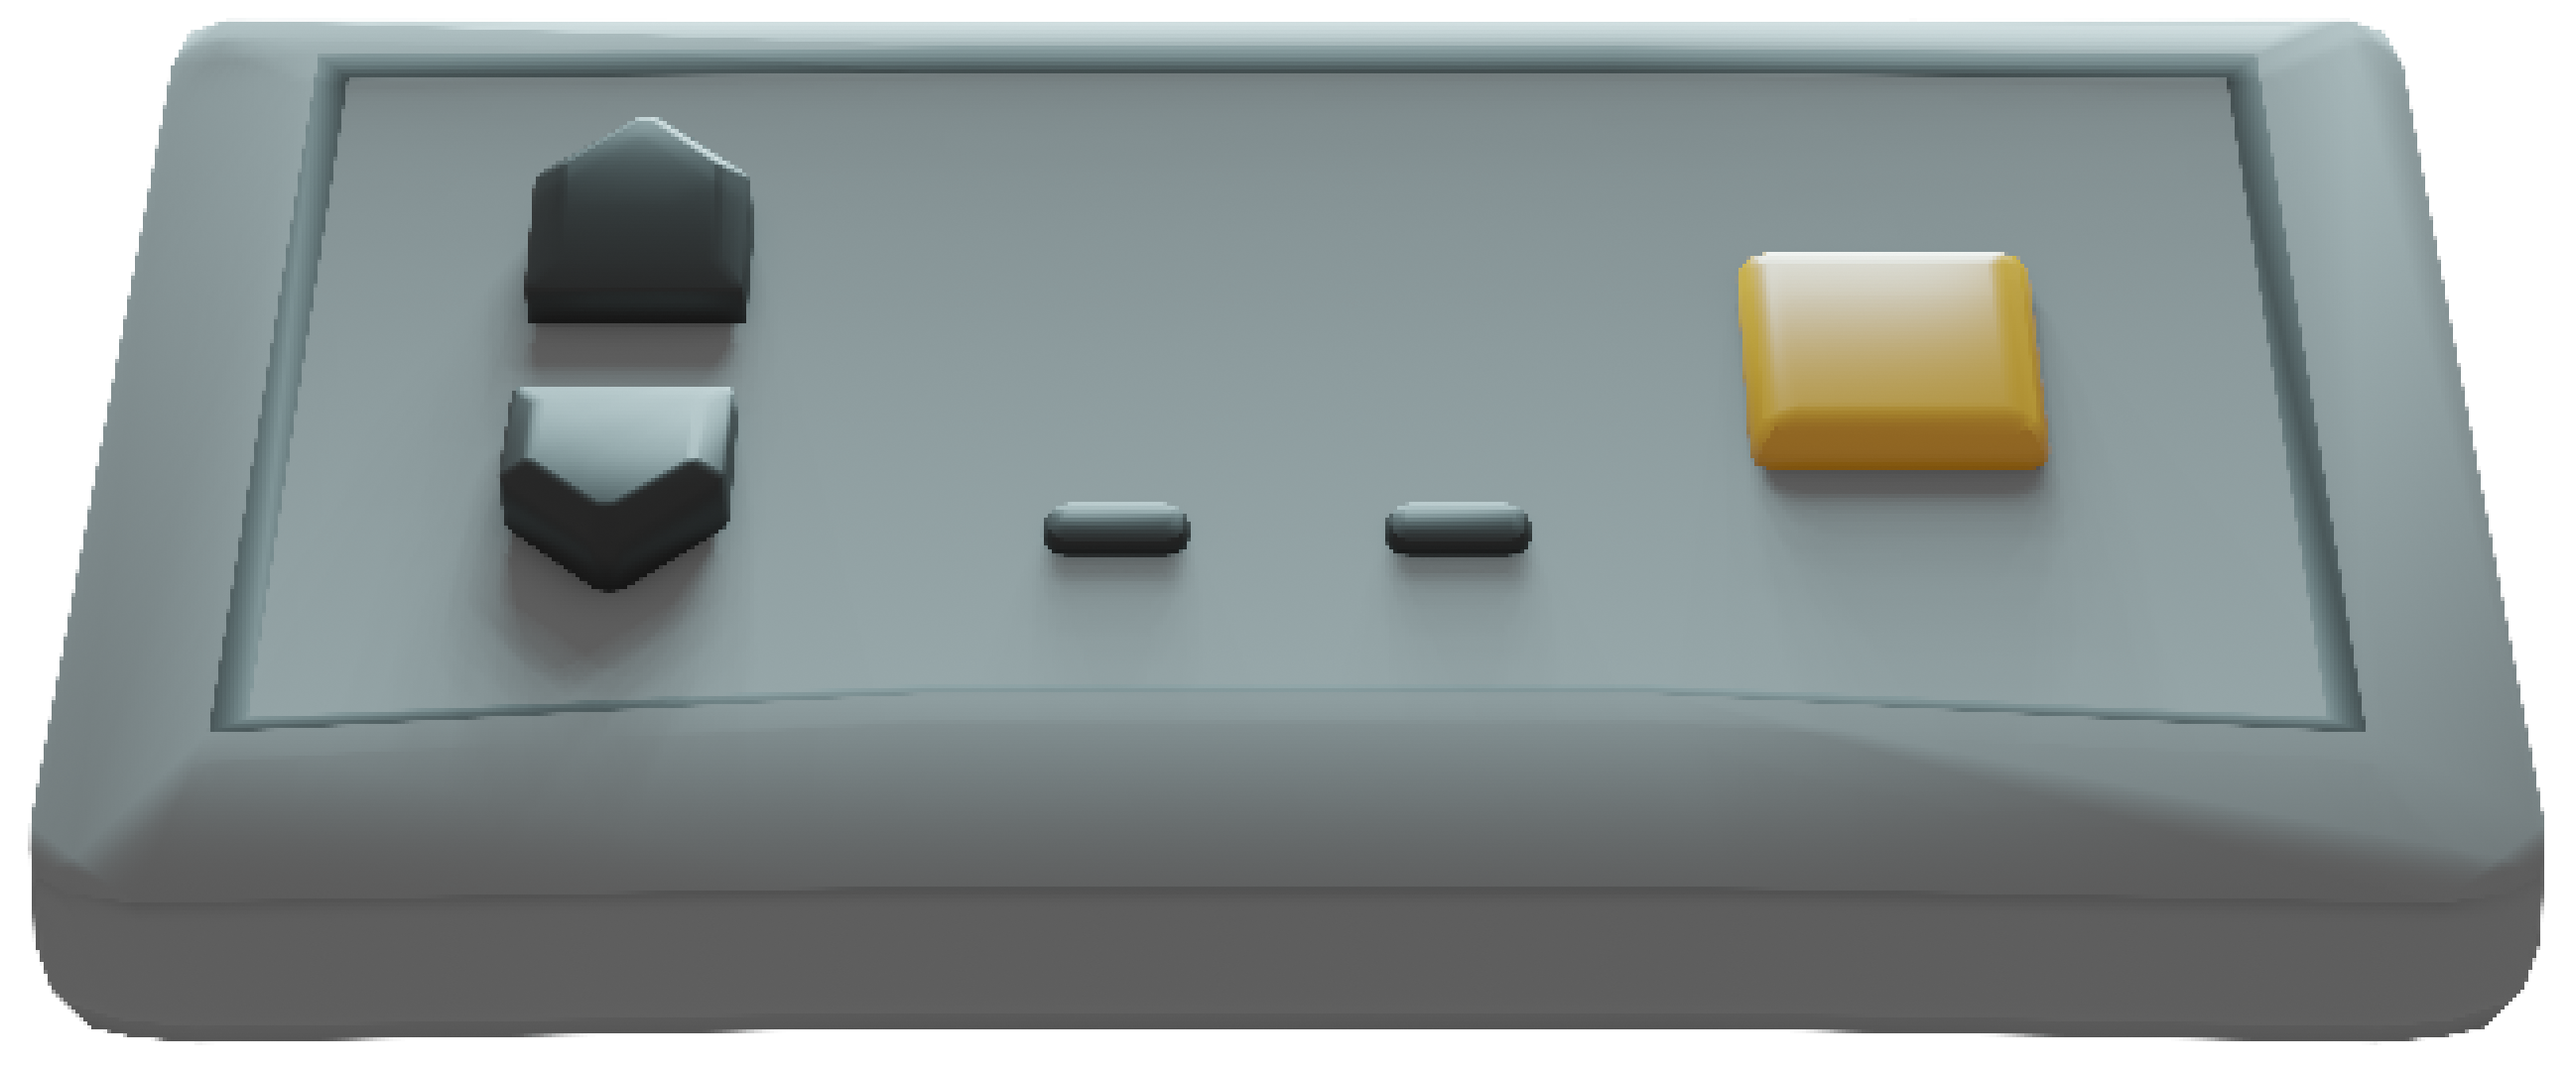
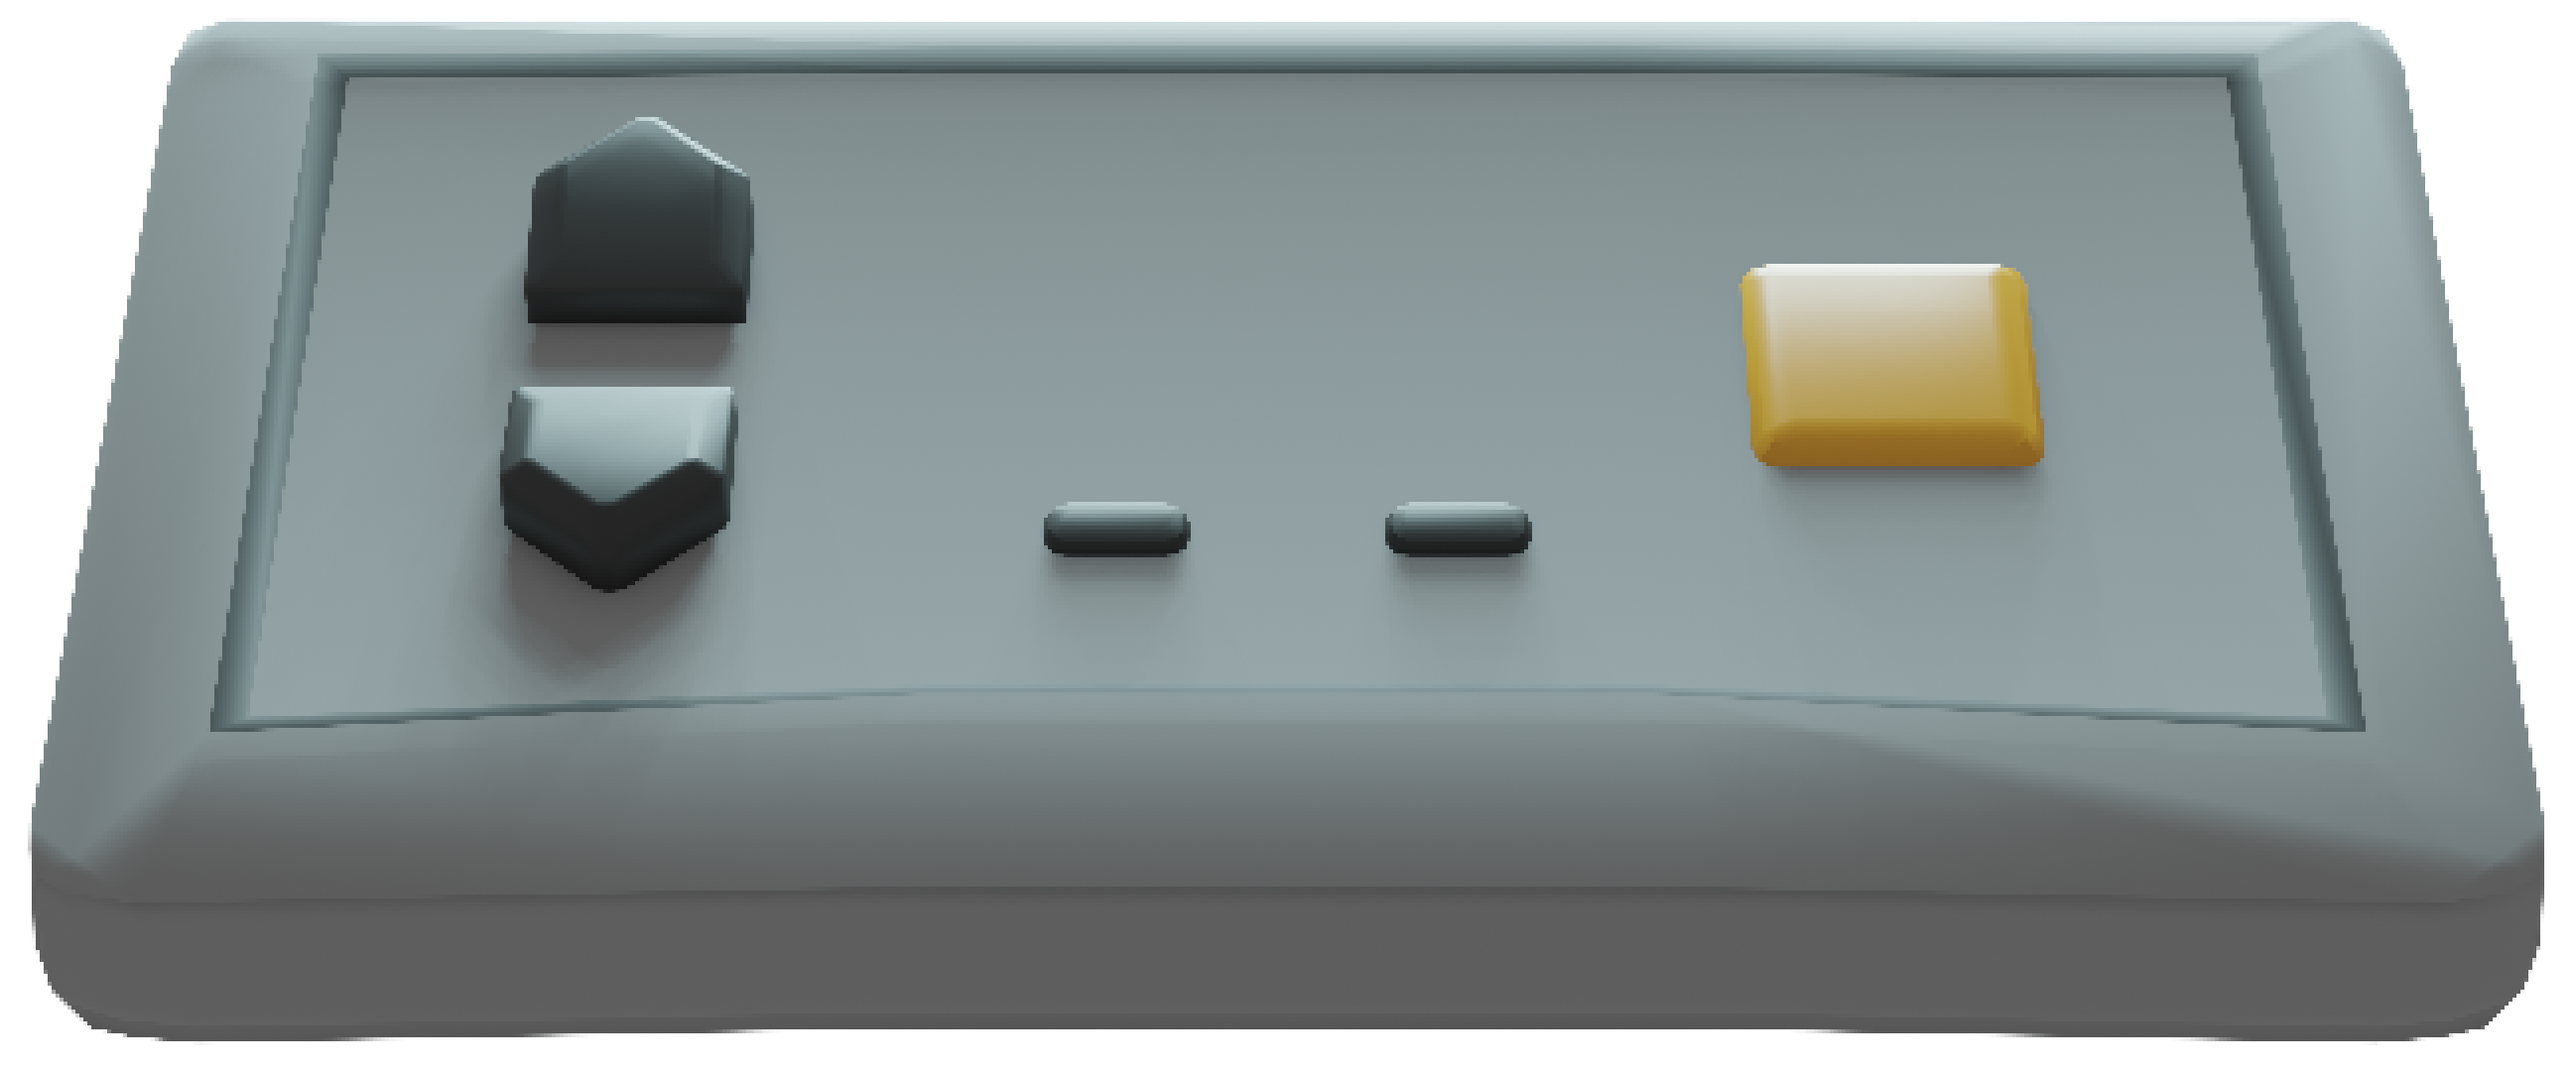
Add files via upload

Changed region(s): [[0.6864, 0.3972, 0.8112, 0.4889], [0.6552, 0.2139, 0.8112, 0.275], [0.6864, 0.3667, 0.78, 0.3972]]

diff --git a/app.js b/app.js
@@ -1,6 +1,8 @@
 const ratMesh = document.querySelector('#ratMesh');
 const ratBox = document.querySelector('#ratBox');
 const controller = document.querySelector('#controller');
+const screen = document.querySelector('.screen');
+const h1 = document.querySelector('h1');
 const y = document.querySelector('#y');
 const u = document.querySelector('#u');
 const d = document.querySelector('#d');
@@ -17,8 +19,8 @@ let speedY = 0;
 window.addEventListener('load', () => {
     ratMesh.src = './imgs/static-rat.png'
     ratBox.style.position = 'absolute';
-    ratBox.style.left = 0;
-    ratBox.style.top = 0;
+    ratBox.style.left = 480 + 'px';
+    ratBox.style.top = 480 + 'px';
 })
 
 //key check
@@ -57,9 +59,9 @@ setInterval(function GameTicks(){
         speedY += .2;
     }
 
-
-
     checkCollisions();
+
+    h1.innerText = inputs;
 }, 10)
 
 //keyup reset
@@ -74,6 +76,7 @@ window.addEventListener('keyup', () => {
 })
 
 //collisions
+let inputs = ['u', 'd', 'y'];
 function checkCollisions(){
     const ratHitBox = ratBox.getBoundingClientRect();
     const yBox = y.getBoundingClientRect();
@@ -92,14 +95,32 @@ function checkCollisions(){
     
     if(uX && uY){
         controller.style.backgroundImage = 'url(./imgs/u-pressed.png)';
+        inputs[0] = true;
+        inputs[1] = 'd';
     } else if (dX && dY){
         controller.style.backgroundImage = 'url(./imgs/d-pressed.png)';
+        inputs[1] = true;
+        inputs[0] = 'u';
     } else if (yX && yY){
         controller.style.backgroundImage = 'url(./imgs/y-pressed.png)';
+        inputs[2] = true;
     } else {
         controller.style.backgroundImage = 'url(./imgs/controller.png)';
+        inputs = ['u', 'd', 'y'];
+    }
+
+    
+    if(inputs[0] == true){
+        screen.style.backgroundColor = 'green'
+    } else if (inputs[1] == true){
+        screen.style.backgroundColor = 'blue'
+    } else if (inputs[2] == true){
+        screen.style.backgroundColor = 'yellow'
+    } else {
+        screen.style.backgroundColor = 'white'
     }
 }
+
 
 
 

diff --git a/style.css b/style.css
@@ -6,7 +6,7 @@
 body{
     width: 100vw;
     height: 100vh;
-    background-color: #3e3e3e;
+    background-color: #1b1b1b;
     display: grid;
     place-content: center;
     perspective: 1500px;
@@ -54,7 +54,7 @@ body{
         justify-content: center;
         gap: 230px;
         align-items: center;
-        margin-top: 30px;
+        margin-top: 32px;
     }
 
     .button{
@@ -63,7 +63,7 @@ body{
 
     #y{
         width: 70px;
-        height: 60px;
+        height: 40px;
     }
 
     #u, #d{
@@ -72,7 +72,7 @@ body{
     }
 
     #u{
-        margin-left: 5px;
+        margin-left: 8px;
     }
 
     .pressed{
@@ -83,5 +83,11 @@ body{
     .arrows{
         display: flex;
         flex-direction: column;
-        gap: 10px;
+        gap: 12px;
     }
+
+.screen{
+    display: grid;
+    place-content: center;
+    font-family: sans-serif;
+}

diff --git a/index.html b/index.html
@@ -7,7 +7,9 @@
     <link rel="stylesheet" href="style.css">
 </head>
 <body>
-    <div class="screen"></div>
+    <div class="screen">
+        <h1>Press up</h1>
+    </div>
     <div id="controller">
         <div class="buttons">
              <section class="arrows">
